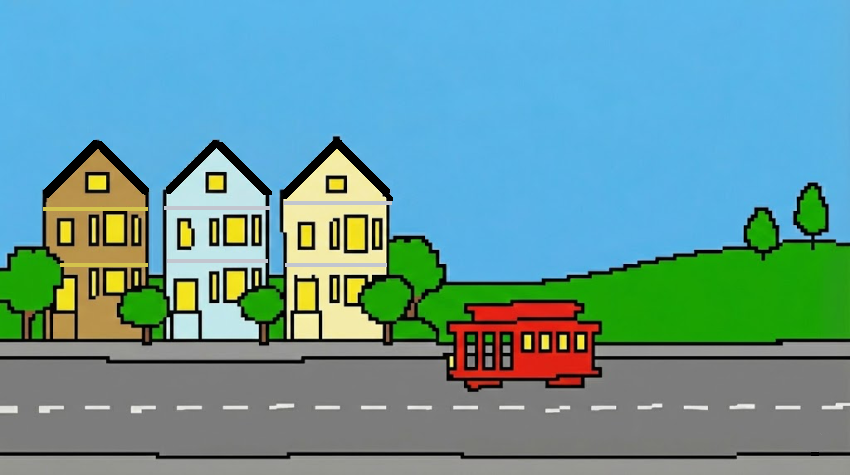
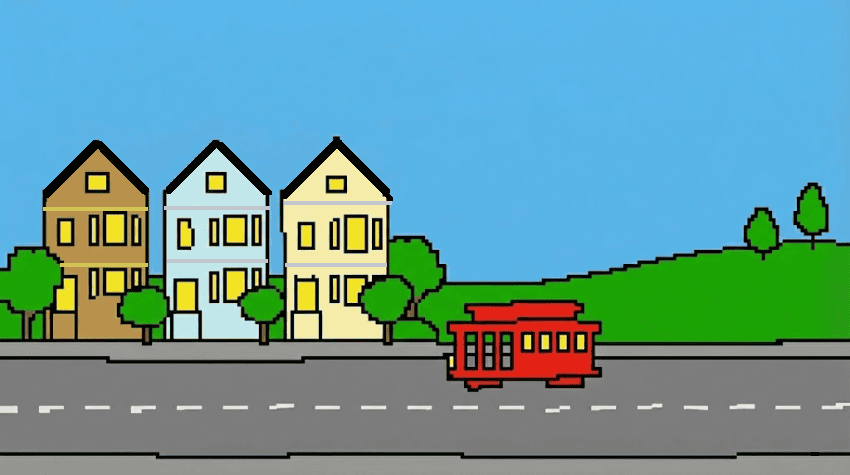
Optimize valentine game for mobile devices
Add visible on-screen touch controls with multitouch support for
simultaneous move+jump, landscape orientation prompt, responsive letter
panel, touch UX hardening, font loading optimization, and compress
bg-sf.png from 301KB to 59KB.

diff --git a/valentine/js/ui/TouchControls.js b/valentine/js/ui/TouchControls.js
@@ -1,0 +1,112 @@
+class TouchControls {
+    constructor(scene) {
+        this.scene = scene;
+        this.isTouchDevice = ('ontouchstart' in window) || (navigator.maxTouchPoints > 0);
+        this.buttons = {};
+        this._prevJump = false;
+
+        if (this.isTouchDevice) {
+            this.createButtons();
+        }
+    }
+
+    createButtons() {
+        const idle = 0.3;
+        const pressed = 0.55;
+        const depth = 400;
+        const btnW = 60;
+        const btnH = 44;
+        const y = GAME_HEIGHT - 30;
+        const pad = 8;
+
+        // Left / Right on bottom-left, Jump on bottom-right
+        this.buttons.left = this.createButton(pad + btnW / 2, y, btnW, btnH, '\u25C0', depth, idle, pressed);
+        this.buttons.right = this.createButton(pad + btnW + pad + btnW / 2, y, btnW, btnH, '\u25B6', depth, idle, pressed);
+        this.buttons.jump = this.createButton(GAME_WIDTH - pad - btnW / 2, y, btnW + 10, btnH, '\u25B2', depth, idle, pressed);
+    }
+
+    createButton(x, y, w, h, label, depth, idleAlpha, pressedAlpha) {
+        const bg = this.scene.add.graphics();
+        bg.fillStyle(0xffffff, idleAlpha);
+        bg.fillRoundedRect(x - w / 2, y - h / 2, w, h, 10);
+        bg.setScrollFactor(0).setDepth(depth);
+
+        const zone = this.scene.add.zone(x, y, w, h)
+            .setInteractive()
+            .setScrollFactor(0)
+            .setDepth(depth + 1);
+
+        const text = this.scene.add.text(x, y, label, {
+            fontSize: '18px',
+            color: '#ffffff'
+        }).setOrigin(0.5).setScrollFactor(0).setDepth(depth + 2).setAlpha(idleAlpha + 0.15);
+
+        let isPressed = false;
+
+        const drawBg = (alpha) => {
+            bg.clear();
+            bg.fillStyle(0xffffff, alpha);
+            bg.fillRoundedRect(x - w / 2, y - h / 2, w, h, 10);
+        };
+
+        zone.on('pointerdown', () => {
+            isPressed = true;
+            drawBg(pressedAlpha);
+            text.setAlpha(pressedAlpha + 0.15);
+        });
+        zone.on('pointerup', () => {
+            isPressed = false;
+            drawBg(idleAlpha);
+            text.setAlpha(idleAlpha + 0.15);
+        });
+        zone.on('pointerout', () => {
+            isPressed = false;
+            drawBg(idleAlpha);
+            text.setAlpha(idleAlpha + 0.15);
+        });
+
+        return {
+            bg, zone, text,
+            get pressed() { return isPressed; }
+        };
+    }
+
+    update(player) {
+        if (!this.isTouchDevice || !player) return;
+
+        player.touchLeft = this.buttons.left.pressed;
+        player.touchRight = this.buttons.right.pressed;
+
+        // Edge-detect jump (press, not hold)
+        const jumpDown = this.buttons.jump.pressed;
+        if (jumpDown && !this._prevJump) {
+            player.touchJump = true;
+            this.scene.time.delayedCall(200, () => { player.touchJump = false; });
+        }
+        this._prevJump = jumpDown;
+    }
+
+    setVisible(visible) {
+        if (!this.isTouchDevice) return;
+        Object.values(this.buttons).forEach(b => {
+            b.bg.setVisible(visible);
+            b.zone.setVisible(visible);
+            b.text.setVisible(visible);
+            if (!visible) {
+                // Reset pressed state by disabling interactivity briefly
+                b.zone.disableInteractive();
+            } else {
+                b.zone.setInteractive();
+            }
+        });
+    }
+
+    destroy() {
+        Object.values(this.buttons).forEach(b => {
+            b.bg.destroy();
+            b.zone.destroy();
+            b.text.destroy();
+        });
+        this.buttons = {};
+    }
+}

diff --git a/valentine/js/scenes/GameplayScene.js b/valentine/js/scenes/GameplayScene.js
@@ -271,13 +271,18 @@ class GameplayScene extends Phaser.Scene {
 
         // Hint text for first scene
         if (this.scene.key === SCENES.BERKELEY) {
-            const hint = this.add.text(GAME_WIDTH / 2, GAME_HEIGHT - 30,
-                'Arrow keys / WASD to move, Space / Up to jump', {
-                    fontSize: '14px',
-                    fontFamily: 'Caveat, cursive',
-                    color: '#ffffff',
-                    alpha: 0.6
-                }).setOrigin(0.5).setScrollFactor(0).setDepth(100);
+            const isTouchDevice = ('ontouchstart' in window) || (navigator.maxTouchPoints > 0);
+            const hintMessage = isTouchDevice
+                ? 'Use buttons to move and jump'
+                : 'Arrow keys / WASD to move, Space / Up to jump';
+            const hintY = isTouchDevice ? GAME_HEIGHT - 65 : GAME_HEIGHT - 30;
+
+            const hint = this.add.text(GAME_WIDTH / 2, hintY, hintMessage, {
+                fontSize: '14px',
+                fontFamily: 'Caveat, cursive',
+                color: '#ffffff',
+                alpha: 0.6
+            }).setOrigin(0.5).setScrollFactor(0).setDepth(100);
 
             this.tweens.add({
                 targets: hint,
@@ -292,10 +297,10 @@ class GameplayScene extends Phaser.Scene {
         if (!this.editMode && (this.transitioning || this.inputPaused)) return;
 
         if (!this.editMode) {
+            this.touchControls?.update(this.player);
             this.player?.update?.();
             this.companion?.update?.();
         }
-
     }
 
     collectHeart(player, heart) {
@@ -320,6 +325,7 @@ class GameplayScene extends Phaser.Scene {
         // Check if all hearts collected
         if (this.heartsCollectedThisLevel >= this.totalHeartsThisLevel) {
             this.inputPaused = true;
+            this.touchControls?.setVisible(false);
             this.player.setVelocityX(0);
             this.player.setVelocityY(0);
 
@@ -337,27 +343,10 @@ class GameplayScene extends Phaser.Scene {
     }
 
     setupTouchControls() {
-        // Left third = move left, right third = move right, top area = jump
-        const leftZone = this.add.zone(0, GAME_HEIGHT * 0.3, GAME_WIDTH * 0.35, GAME_HEIGHT * 0.7)
-            .setOrigin(0, 0).setInteractive().setScrollFactor(0).setDepth(300);
-        const rightZone = this.add.zone(GAME_WIDTH * 0.65, GAME_HEIGHT * 0.3, GAME_WIDTH * 0.35, GAME_HEIGHT * 0.7)
-            .setOrigin(0, 0).setInteractive().setScrollFactor(0).setDepth(300);
+        this.touchControls = new TouchControls(this);
 
-        leftZone.on('pointerdown', () => { this.player.touchLeft = true; });
-        leftZone.on('pointerup', () => { this.player.touchLeft = false; });
-        leftZone.on('pointerout', () => { this.player.touchLeft = false; });
-
-        rightZone.on('pointerdown', () => { this.player.touchRight = true; });
-        rightZone.on('pointerup', () => { this.player.touchRight = false; });
-        rightZone.on('pointerout', () => { this.player.touchRight = false; });
-
-        // Tap top portion to jump
-        const jumpZone = this.add.zone(0, 0, GAME_WIDTH, GAME_HEIGHT * 0.3)
-            .setOrigin(0, 0).setInteractive().setScrollFactor(0).setDepth(300);
-
-        jumpZone.on('pointerdown', () => {
-            this.player.touchJump = true;
-            this.time.delayedCall(200, () => { this.player.touchJump = false; });
+        this.events.once(Phaser.Scenes.Events.SHUTDOWN, () => {
+            this.touchControls?.destroy();
         });
     }
 }

diff --git a/valentine/js/ui/LetterPanel.js b/valentine/js/ui/LetterPanel.js
@@ -5,6 +5,13 @@ class LetterPanel {
     }
 
     show(itemName, message, onDismiss) {
+        const isTouchDevice = ('ontouchstart' in window) || (navigator.maxTouchPoints > 0);
+        const panelW = isTouchDevice ? 650 : 500;
+        const panelH = isTouchDevice ? 340 : 280;
+        const headerSize = isTouchDevice ? '32px' : '28px';
+        const bodySize = isTouchDevice ? '22px' : '18px';
+        const wrapWidth = panelW - 60;
+
         // Dark overlay
         const overlay = this.scene.add.rectangle(
             GAME_WIDTH / 2, GAME_HEIGHT / 2, GAME_WIDTH, GAME_HEIGHT, 0x000000, 0.6
@@ -13,15 +20,15 @@ class LetterPanel {
 
         // Paper background — slightly rotated for handwritten feel
         const paper = this.scene.add.rectangle(
-            GAME_WIDTH / 2, GAME_HEIGHT / 2, 500, 280, 0xfff8ed, 1
+            GAME_WIDTH / 2, GAME_HEIGHT / 2, panelW, panelH, 0xfff8ed, 1
         ).setDepth(201).setScrollFactor(0).setAlpha(0);
         paper.setStrokeStyle(2, 0xd4c5a9);
         paper.rotation = Phaser.Math.DegToRad(Phaser.Math.Between(-1, 2));
         this.elements.push(paper);
 
         // Item name header
-        const header = this.scene.add.text(GAME_WIDTH / 2, GAME_HEIGHT / 2 - 100, itemName, {
-            fontSize: '28px',
+        const header = this.scene.add.text(GAME_WIDTH / 2, GAME_HEIGHT / 2 - panelH / 2 + 35, itemName, {
+            fontSize: headerSize,
             fontFamily: 'Caveat, cursive',
             color: '#ff6b8a'
         }).setOrigin(0.5).setDepth(202).setScrollFactor(0).setAlpha(0);
@@ -29,17 +36,17 @@ class LetterPanel {
 
         // Message body
         const body = this.scene.add.text(GAME_WIDTH / 2, GAME_HEIGHT / 2, message, {
-            fontSize: '18px',
+            fontSize: bodySize,
             fontFamily: 'Caveat, cursive',
             color: '#4a3728',
-            wordWrap: { width: 440 },
+            wordWrap: { width: wrapWidth },
             lineSpacing: 6,
             align: 'center'
         }).setOrigin(0.5).setDepth(202).setScrollFactor(0).setAlpha(0);
         this.elements.push(body);
 
         // "tap to continue" prompt
-        const prompt = this.scene.add.text(GAME_WIDTH / 2, GAME_HEIGHT / 2 + 120, 'tap to continue', {
+        const prompt = this.scene.add.text(GAME_WIDTH / 2, GAME_HEIGHT / 2 + panelH / 2 - 20, 'tap to continue', {
             fontSize: '14px',
             fontFamily: 'Caveat, cursive',
             color: '#999'

diff --git a/valentine/index.html b/valentine/index.html
@@ -4,17 +4,26 @@
     <meta charset="UTF-8">
     <meta name="viewport" content="width=device-width, initial-scale=1.0, user-scalable=no">
     <title>Happy Valentine's Day</title>
+    <link rel="preconnect" href="https://fonts.googleapis.com">
+    <link rel="preconnect" href="https://fonts.gstatic.com" crossorigin>
+    <link href="https://fonts.googleapis.com/css2?family=Caveat:wght@400;700&display=swap" rel="stylesheet">
     <link rel="stylesheet" href="css/style.css">
     <script src="https://cdn.jsdelivr.net/npm/phaser@3.80.1/dist/phaser.min.js"></script>
 </head>
 <body>
     <div id="game-container"></div>
 
+    <div id="rotate-prompt">
+        <p style="font-size: 48px;">&#x1F504;</p>
+        <p>Please rotate your device to landscape</p>
+    </div>
+
     <!-- UI utilities -->
     <script src="js/ui/TransitionFX.js"></script>
     <script src="js/ui/ItemsCounter.js"></script>
     <script src="js/ui/LetterPanel.js"></script>
     <script src="js/ui/TextOverlay.js"></script>
+    <script src="js/ui/TouchControls.js"></script>
 
     <!-- Game objects -->
     <script src="js/objects/Player.js"></script>

diff --git a/valentine/css/style.css b/valentine/css/style.css
@@ -1,5 +1,3 @@
-@import url('https://fonts.googleapis.com/css2?family=Caveat:wght@400;700&display=swap');
-
 * { margin: 0; padding: 0; box-sizing: border-box; }
 
 body {
@@ -9,6 +7,11 @@ body {
     align-items: center;
     min-height: 100vh;
     overflow: hidden;
+    -webkit-touch-callout: none;
+    -webkit-user-select: none;
+    user-select: none;
+    touch-action: none;
+    overscroll-behavior: none;
 }
 
 #game-container {
@@ -18,4 +21,29 @@ body {
 
 #game-container canvas {
     display: block;
+}
+
+#rotate-prompt {
+    display: none;
+    position: fixed;
+    top: 0; left: 0; right: 0; bottom: 0;
+    background: #1a0a1a;
+    color: #ff6b8a;
+    font-family: 'Caveat', cursive;
+    font-size: 24px;
+    text-align: center;
+    z-index: 9999;
+    flex-direction: column;
+    justify-content: center;
+    align-items: center;
+    gap: 12px;
+}
+
+@media (orientation: portrait) and (max-width: 768px) {
+    #rotate-prompt {
+        display: flex !important;
+    }
+    #game-container {
+        display: none !important;
+    }
 }

diff --git a/valentine/js/config.js b/valentine/js/config.js
@@ -214,6 +214,9 @@ window.addEventListener('load', () => {
         width: GAME_WIDTH,
         height: GAME_HEIGHT,
         pixelArt: true,
+        input: {
+            activePointers: 2
+        },
         physics: {
             default: 'arcade',
             arcade: {
